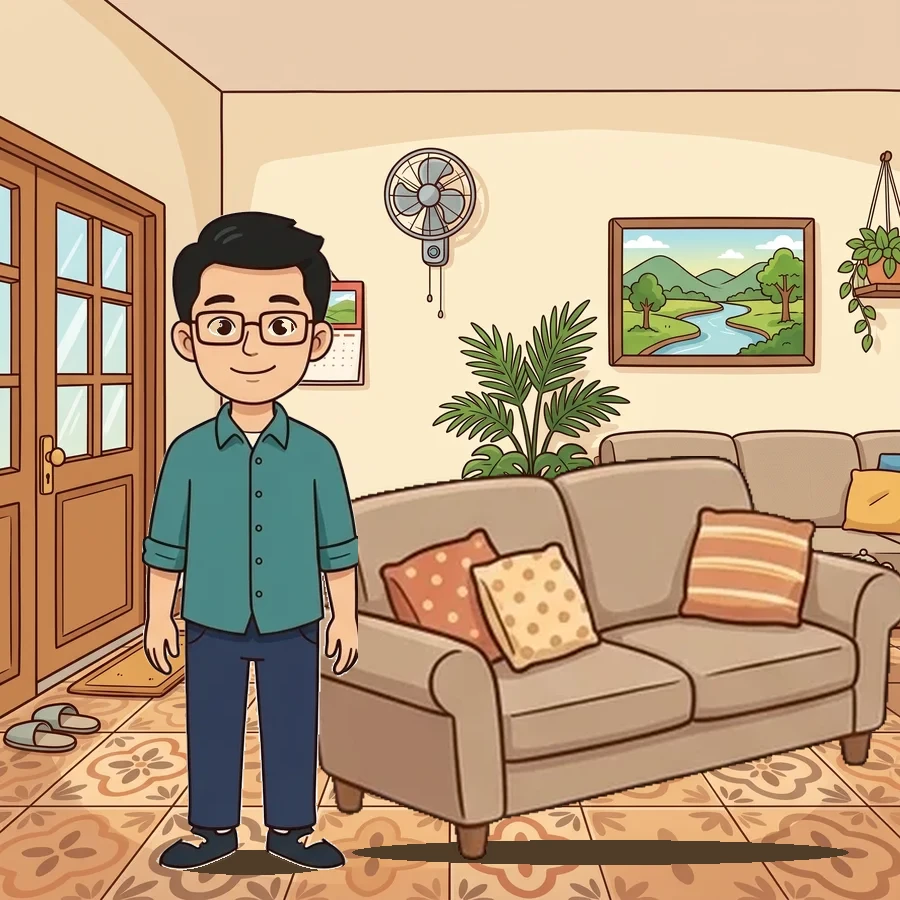
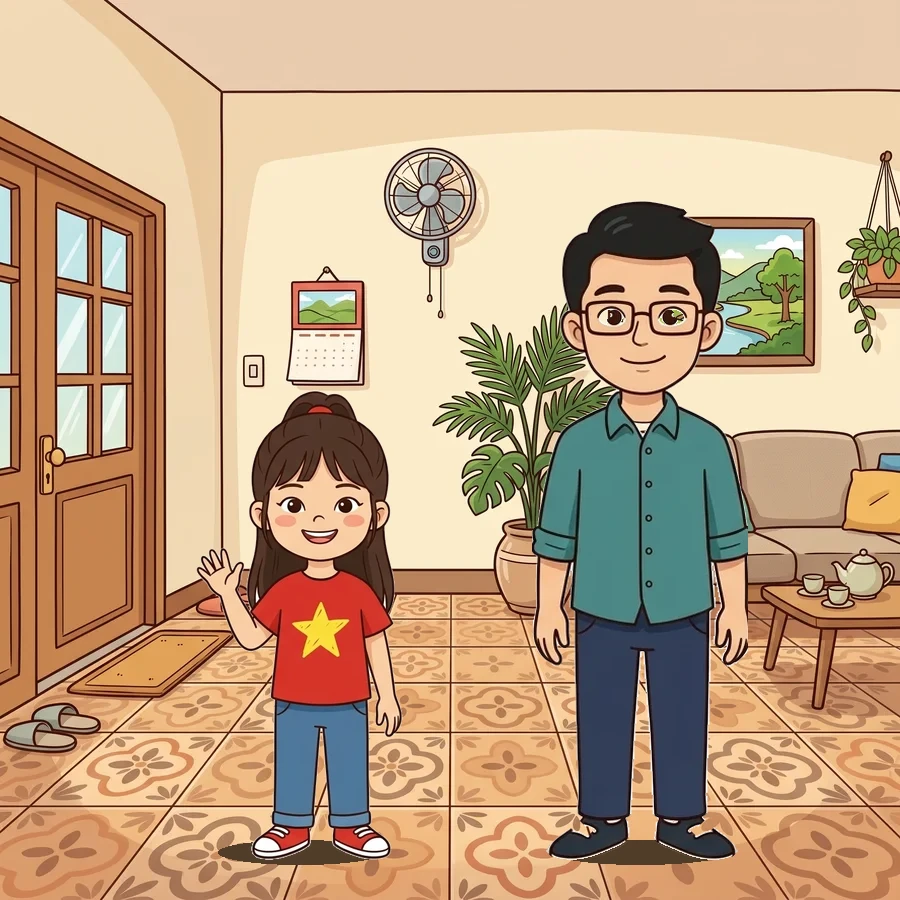
Big book mẫu PA1: trang đoán dùng bóng in tường, đồ của nhân vật thay cho cắt đôi người, nấp sau ghế
Claude-Session: https://claude.ai/code/session_018HVPnLFwoTbQKBd1fs4GD5

diff --git a/little-seed/day/mau-big-book/index.html b/little-seed/day/mau-big-book/index.html
@@ -15,6 +15,6 @@
 table.ss td{font-size:14px}
 </style></head><body>
 <div class="top noprint"><b>Big book mẫu · Little Seed U1 · "Hello, …?"</b><span class="sp"></span><a class="btn" href="../">← Học liệu in</a><button class="btn p" onclick="print()">In / Lưu PDF</button></div>
-<div class="wrap noprint"><div class="note"><b>Mẫu theo bộ quy tắc thiết kế big book mới (chờ chị duyệt).</b> Cặp trang <b>đoán → lật → chào</b>: trang đoán chỉ hé một đặc điểm (tóc, kính, cái đuôi, bàn tay), con đoán và nói to trước khi cô lật. Có cảnh nền đúng nơi xảy ra (nhà Bông, lớp, sân trường). Chỗ cười: trang 7–8 cô cố ý đoán sai ("kitten?" → "No! puppy!"); trang 15 chữ nói "Goodbye" nhưng tranh cho thấy Puppy đã chui lên giường. Khung câu 100% "Hello, ___!", chỉ dùng từ Unit 1. In A4 dọc, phóng A3 khi in big book thật. Tranh ghép từ tranh có sẵn; bản chính thức nên vẽ riêng (xem bộ quy tắc).</div>
-<table class="ss"><tr><th>Trang</th><th>Câu</th><th>Cô làm gì</th></tr><tr><td>Bìa</td><td>Hello, …?<br><span class="zh">……，你好？</span></td><td>Bìa: chỉ mèo, Puppy ló ở hai mép. Hỏi &quot;Hello, …?&quot; – con đoán ai sẽ xuất hiện.</td></tr><tr><td>1</td><td>Hello, …?<br><span class="zh">……，你好？</span></td><td>Trang đoán: chỉ mái tóc dài, vạt váy. Dừng 3 giây, để con đoán rồi mới lật.</td></tr><tr><td>2</td><td>Hello, mommy!<br><span class="zh">妈妈，你好！</span></td><td>Cả lớp vẫy tay chào.</td></tr><tr><td>3</td><td>Hello, …?<br><span class="zh">……，你好？</span></td><td>Chỉ cặp kính sau ghế. Con nói &quot;daddy!&quot; trước khi cô lật.</td></tr><tr><td>4</td><td>Hello, daddy!<br><span class="zh">爸爸，你好！</span></td><td></td></tr><tr><td>5</td><td>Hello, …?<br><span class="zh">……，你好？</span></td><td>Cái đuôi vằn cam. Làm tiếng &quot;meo&quot; nếu con chưa đoán ra.</td></tr><tr><td>6</td><td>Hello, kitten!<br><span class="zh">小猫，你好！</span></td><td></td></tr><tr><td>7</td><td>Hello, kitten?<br><span class="zh">小猫，你好？</span></td><td>Cô cố ý đoán sai: &quot;Hello, kitten?&quot; Đuôi nâu, không vằn. Chờ con phản đối &quot;No!&quot;.</td></tr><tr><td>8</td><td>No! Hello, puppy!<br><span class="zh">不对！小狗，你好！</span></td><td>Chỗ cười: cô làm mặt ngạc nhiên. Cả lớp nói &quot;No!&quot; thật to.</td></tr><tr><td>9</td><td>Hello, …?<br><span class="zh">……，你好？</span></td><td>Ở lớp: ai che mặt bằng quyển sách đỏ? Chỉ váy xanh ngọc.</td></tr><tr><td>10</td><td>Hello, teacher!<br><span class="zh">老师，你好！</span></td><td>Con chào cô thật, ngay trên lớp.</td></tr><tr><td>11</td><td>Hello, …?<br><span class="zh">……，你好？</span></td><td>Bàn tay vẫy và mái tóc xoăn ló ở mép trang.</td></tr><tr><td>12</td><td>Hello, friend!<br><span class="zh">朋友，你好！</span></td><td>Con quay sang chào bạn bên cạnh.</td></tr><tr><td>13</td><td>Hello, everyone!<br><span class="zh">大家好！</span></td><td></td></tr><tr><td>14</td><td>Goodbye, all! See you tomorrow!<br><span class="zh">大家再见！明天见！</span></td><td>Nắng chiều: hết giờ học.</td></tr><tr><td>15</td><td>Goodbye, puppy!<br><span class="zh">小狗，再见！</span></td><td>Chữ nói &quot;Goodbye&quot; nhưng Puppy đã chui lên giường Bông! Hỏi: Puppy có đi không? Con trả lời &quot;No!&quot;.</td></tr><tr><td>16</td><td>Hello, ___!<br><span class="zh">___，你好！</span></td><td>Trang cuối: dán ảnh con vào khung, cả lớp đọc tên con.</td></tr></table></div>
+<div class="wrap noprint"><div class="note"><b>Mẫu theo bộ quy tắc thiết kế big book mới (chờ chị duyệt).</b> Cặp trang <b>đoán → lật → chào</b>: trang đoán cho con thấy <b>cái bóng</b> hoặc <b>đồ của nhân vật</b> (không cắt đôi người, không nấp gượng), con đoán và nói to trước khi cô lật. Có cảnh nền đúng nơi xảy ra (nhà Bông, lớp, sân trường). Chỗ cười: trang 7–8 cô cố ý đoán sai ("kitten?" → "No! puppy!"); trang 15 chữ nói "Goodbye" nhưng tranh cho thấy Puppy đã chui lên giường. Khung câu 100% "Hello, ___!", chỉ dùng từ Unit 1. In A4 dọc, phóng A3 khi in big book thật. Đây là <b>phương án 1</b> (ghép từ tranh có sẵn). Phương án 2 (vẽ trọn cảnh bằng AI) có 4 trang thử, xem trong Canva.</div>
+<table class="ss"><tr><th>Trang</th><th>Câu</th><th>Cô làm gì</th></tr><tr><td>Bìa</td><td>Hello, …?<br><span class="zh">……，你好？</span></td><td>Bìa: Bông, mèo và Puppy. Hỏi &quot;Hello, …?&quot; – hôm nay Bông sẽ chào ai?</td></tr><tr><td>1</td><td>Hello, …?<br><span class="zh">……，你好？</span></td><td>Trang đoán: cái bóng trên tường – tóc dài, mặc váy. Dừng 3 giây, để con đoán rồi mới lật.</td></tr><tr><td>2</td><td>Hello, mommy!<br><span class="zh">妈妈，你好！</span></td><td>Cả lớp vẫy tay chào.</td></tr><tr><td>3</td><td>Hello, …?<br><span class="zh">……，你好？</span></td><td>Bóng tóc ngắn, mặc áo sơ mi. Con nói &quot;daddy!&quot; trước khi cô lật.</td></tr><tr><td>4</td><td>Hello, daddy!<br><span class="zh">爸爸，你好！</span></td><td></td></tr><tr><td>5</td><td>Hello, …?<br><span class="zh">……，你好？</span></td><td>Bóng tai nhọn, đuôi dựng. Làm tiếng &quot;meo&quot; nếu con chưa đoán ra.</td></tr><tr><td>6</td><td>Hello, kitten!<br><span class="zh">小猫，你好！</span></td><td></td></tr><tr><td>7</td><td>Hello, kitten?<br><span class="zh">小猫，你好？</span></td><td>Cô cố ý đoán sai: &quot;Hello, kitten?&quot; – nhưng mèo đang ngồi cạnh Bông, và cái bóng tai cụp! Chờ con phản đối &quot;No!&quot;.</td></tr><tr><td>8</td><td>No! Hello, puppy!<br><span class="zh">不对！小狗，你好！</span></td><td>Chỗ cười: cô làm mặt ngạc nhiên. Cả lớp nói &quot;No!&quot; thật to.</td></tr><tr><td>9</td><td>Hello, …?<br><span class="zh">……，你好？</span></td><td>Ở lớp: bóng ai in lên bảng? Tóc ngang vai, ôm quyển sách.</td></tr><tr><td>10</td><td>Hello, teacher!<br><span class="zh">老师，你好！</span></td><td>Con chào cô thật, ngay trên lớp.</td></tr><tr><td>11</td><td>Hello, …?<br><span class="zh">……，你好？</span></td><td>Cặp sách xanh của bạn trên sàn, và bóng một bạn tóc xoăn đang vẫy tay.</td></tr><tr><td>12</td><td>Hello, friend!<br><span class="zh">朋友，你好！</span></td><td>Con quay sang chào bạn bên cạnh.</td></tr><tr><td>13</td><td>Hello, everyone!<br><span class="zh">大家好！</span></td><td></td></tr><tr><td>14</td><td>Goodbye, all! See you tomorrow!<br><span class="zh">大家再见！明天见！</span></td><td>Nắng chiều: hết giờ học.</td></tr><tr><td>15</td><td>Goodbye, puppy!<br><span class="zh">小狗，再见！</span></td><td>Chữ nói &quot;Goodbye&quot; nhưng Puppy đã chui lên giường Bông! Hỏi: Puppy có đi không? Con trả lời &quot;No!&quot;.</td></tr><tr><td>16</td><td>Hello, ___!<br><span class="zh">___，你好！</span></td><td>Trang cuối: dán ảnh con vào khung, cả lớp đọc tên con.</td></tr></table></div>
 <div class="pw"><section class="pg bb bia"><div class="sc"><img src="tranh/bia.webp" alt=""></div><div class="tx"><div class="title en">Hello, <span class="slot">…</span>?</div><div class="title zh"><span class="slot">…</span>，你好？</div><div class="sub">Little Seed · Unit 1 · Big Book</div></div></section><section class="pg bb doan"><div class="sc"><img src="tranh/p1_doan.webp" alt=""></div><div class="tx"><div class="en">Hello, <span class="slot">…</span>?</div><div class="zh"><span class="slot">…</span>，你好？</div><div class="py">， nǐ hǎo?</div></div><div class="no">1</div><div class="q">?</div></section><section class="pg bb chao"><div class="sc"><img src="tranh/p1_chao.webp" alt=""></div><div class="tx"><div class="en">Hello, <b class="o">mommy</b>!</div><div class="zh"><b class="o">妈妈</b>，你好！</div><div class="py">mā mā, nǐ hǎo!</div></div><div class="no">2</div></section><section class="pg bb doan"><div class="sc"><img src="tranh/p2_doan.webp" alt=""></div><div class="tx"><div class="en">Hello, <span class="slot">…</span>?</div><div class="zh"><span class="slot">…</span>，你好？</div><div class="py">， nǐ hǎo?</div></div><div class="no">3</div><div class="q">?</div></section><section class="pg bb chao"><div class="sc"><img src="tranh/p2_chao.webp" alt=""></div><div class="tx"><div class="en">Hello, <b class="o">daddy</b>!</div><div class="zh"><b class="o">爸爸</b>，你好！</div><div class="py">bà bà, nǐ hǎo!</div></div><div class="no">4</div></section><section class="pg bb doan"><div class="sc"><img src="tranh/p3_doan.webp" alt=""></div><div class="tx"><div class="en">Hello, <span class="slot">…</span>?</div><div class="zh"><span class="slot">…</span>，你好？</div><div class="py">， nǐ hǎo?</div></div><div class="no">5</div><div class="q">?</div></section><section class="pg bb chao"><div class="sc"><img src="tranh/p3_chao.webp" alt=""></div><div class="tx"><div class="en">Hello, <b class="o">kitten</b>!</div><div class="zh"><b class="o">小猫</b>，你好！</div><div class="py">xiǎo māo, nǐ hǎo!</div></div><div class="no">6</div></section><section class="pg bb doan"><div class="sc"><img src="tranh/p4_doan.webp" alt=""></div><div class="tx"><div class="en">Hello, <b class="o">kitten</b>?</div><div class="zh"><b class="o">小猫</b>，你好？</div><div class="py">xiǎo māo, nǐ hǎo?</div></div><div class="no">7</div><div class="q">?</div></section><section class="pg bb chao"><div class="sc"><img src="tranh/p4_chao.webp" alt=""></div><div class="tx"><div class="en">No! Hello, <b class="o">puppy</b>!</div><div class="zh">不对！<b class="o">小狗</b>，你好！</div><div class="py">bú duì! xiǎo gǒu, nǐ hǎo!</div></div><div class="no">8</div></section><section class="pg bb doan"><div class="sc"><img src="tranh/p5_doan.webp" alt=""></div><div class="tx"><div class="en">Hello, <span class="slot">…</span>?</div><div class="zh"><span class="slot">…</span>，你好？</div><div class="py">， nǐ hǎo?</div></div><div class="no">9</div><div class="q">?</div></section><section class="pg bb chao"><div class="sc"><img src="tranh/p5_chao.webp" alt=""></div><div class="tx"><div class="en">Hello, <b class="o">teacher</b>!</div><div class="zh"><b class="o">老师</b>，你好！</div><div class="py">lǎo shī, nǐ hǎo!</div></div><div class="no">10</div></section><section class="pg bb doan"><div class="sc"><img src="tranh/p6_doan.webp" alt=""></div><div class="tx"><div class="en">Hello, <span class="slot">…</span>?</div><div class="zh"><span class="slot">…</span>，你好？</div><div class="py">， nǐ hǎo?</div></div><div class="no">11</div><div class="q">?</div></section><section class="pg bb chao"><div class="sc"><img src="tranh/p6_chao.webp" alt=""></div><div class="tx"><div class="en">Hello, <b class="o">friend</b>!</div><div class="zh"><b class="o">朋友</b>，你好！</div><div class="py">péng yǒu, nǐ hǎo!</div></div><div class="no">12</div></section><section class="pg bb chao"><div class="sc"><img src="tranh/p7.webp" alt=""></div><div class="tx"><div class="en">Hello, <b class="o">everyone</b>!</div><div class="zh"><b class="o">大家</b>好！</div><div class="py">dà jiā hǎo!</div></div><div class="no">13</div></section><section class="pg bb chao"><div class="sc"><img src="tranh/p8.webp" alt=""></div><div class="tx"><div class="en"><b class="o">Goodbye</b>, all! See you tomorrow!</div><div class="zh">大家<b class="o">再见</b>！明天见！</div><div class="py">dà jiā zài jiàn! míng tiān jiàn!</div></div><div class="no">14</div></section><section class="pg bb chao"><div class="sc"><img src="tranh/p9.webp" alt=""></div><div class="tx"><div class="en">Goodbye, <b class="o">puppy</b>!</div><div class="zh"><b class="o">小狗</b>，再见！</div><div class="py">xiǎo gǒu, zài jiàn!</div></div><div class="no">15</div></section><section class="pg bb ten"><div class="sc"><img src="tranh/p10.webp" alt=""></div><div class="tx"><div class="en">Hello, <span class="blank"></span>!</div><div class="zh"><span class="blank"></span>，你好！</div><div class="py">， nǐ hǎo!</div></div><div class="no">16</div></section></div></body></html>

diff --git a/chuong-trinh/cong-cu/hoc-lieu/mau-big-book/ghep.py b/chuong-trinh/cong-cu/hoc-lieu/mau-big-book/ghep.py
@@ -51,42 +51,52 @@ def part(im, box):
     a = Image.composite(im.split()[3], Image.new('L', im.size, 0), m); out = im.copy(); out.putalpha(a); return out
 
 BONG = lambda h=470, flip=False: nv('kids_bong_a', h, flip)
-# Bìa: Bông vẫy chào, mèo và Puppy ló ra ở hai mép
+def bong(base, im, cx, by, h, skew=0.18, alpha=150, blur=1.6):
+    """Bóng người in lên tường: lấy dáng nhân vật, tô sẫm, mờ nhẹ, xô nghiêng như có đèn chiếu từ phía cửa."""
+    m = im.split()[3].point(lambda v: 255 if v > 40 else 0)
+    w = int(im.width * h / im.height); m = m.resize((w, h))
+    m = m.transform((w + int(h * abs(skew)), h), Image.AFFINE, (1, skew, -h * skew if skew > 0 else 0, 0, 1, 0), Image.BICUBIC)
+    m = m.filter(ImageFilter.GaussianBlur(blur)).point(lambda v: v * alpha // 255)
+    sh = Image.new('RGBA', m.size, (55, 50, 70, 0)); sh.putalpha(m)
+    base.alpha_composite(sh, (int(cx - sh.width / 2), int(by - h)))
+
+BONG = lambda h=470, flip=False: nv('kids_bong_a', h, flip)
+WALL = 545   # chân tường phòng khách ls_home (chỗ tường gặp sàn)
+# Bìa: Bông vẫy chào, mèo và Puppy ngồi hai bên
 b = nen('ls_home'); put(b, BONG(520), 450, 860)
-put(b, nv('pets_meo_ngoi_a', 300, True), 20, 870, sh=False); put(b, nv('pets_cun_ngoi_a', 320), 880, 870, sh=False)
+put(b, nv('pets_meo_ngoi_a', 260, True), 210, 870); put(b, nv('pets_cun_ngoi_a', 280), 700, 870)
 save(b, 'bia')
 
-# 1 – đoán: mẹ bước vào từ mép phải, chỉ thấy mái tóc dài và một bên váy
-b = nen('ls_home'); put(b, BONG(), 300, 860); put(b, nv('fam_bong_me_a', 640), 925, 860, sh=False); save(b, 'p1_doan')
-b = nen('ls_home'); put(b, BONG(), 300, 860); put(b, nv('fam_bong_me_a', 640), 640, 860); save(b, 'p1_chao')
+# Trang đoán: không cắt người, không nấp – BÓNG in trên tường; Bông quay nhìn cái bóng
+# 1 – bóng tóc dài, váy → mommy
+me = nv('fam_bong_me_a', 640)
+b = nen('ls_home'); bong(b, me, 600, WALL + 10, 470); put(b, BONG(470, True), 260, 860); save(b, 'p1_doan')
+b = nen('ls_home'); put(b, BONG(), 300, 860); put(b, me, 640, 860); save(b, 'p1_chao')
 
-# 2 – đoán: bố trốn sau ghế sofa, chỉ thấy tóc và cặp kính
-b = nen('ls_home'); d = nv('fam_bong_bo_a', 660); top = 860 - int(SOFA.height * 620 / SOFA.width)
-b.alpha_composite(part(d, (0, 0, 1, .4)), (470 - d.width // 2, top - 105)); sofa(b); save(b, 'p2_doan')
-b = nen('ls_home'); sofa(b, cx=600); put(b, d, 250, 870); save(b, 'p2_chao')
+# 2 – bóng tóc ngắn, đeo kính, áo sơ mi → daddy
+bo = nv('fam_bong_bo_a', 660)
+b = nen('ls_home'); bong(b, bo, 610, WALL + 10, 480); put(b, BONG(470, True), 260, 860); save(b, 'p2_doan')
+b = nen('ls_home'); put(b, BONG(), 300, 860); put(b, bo, 640, 860); save(b, 'p2_chao')
 
-# 3 – đoán: cái đuôi vằn cam thò lên sau lưng ghế
+# 3 – bóng tai nhọn, đuôi dựng → kitten
 meo = nv('pets_meo_dung_a', 330)
-b = nen('ls_home'); b.alpha_composite(part(meo, (.76, 0, 1, .55)), (560 - meo.width // 2, top - 160)); sofa(b); save(b, 'p3_doan')
-b = nen('ls_home'); sofa(b); put(b, nv('pets_meo_dung_a', 300), 470, top + 150, sh=False); save(b, 'p3_chao')
+b = nen('ls_home'); bong(b, meo, 600, WALL + 10, 300, skew=.12); put(b, BONG(470, True), 260, 860); save(b, 'p3_doan')
+b = nen('ls_home'); put(b, BONG(), 300, 860); put(b, meo, 640, 860); save(b, 'p3_chao')
 
-# 4 – đoán: lại một cái đuôi (màu nâu, không có vằn) – cô đọc "Hello, kitten?", con tinh ý nói "No!"
+# 4 – lại một cái bóng bốn chân… tai cụp, đuôi ngắn. Cô đọc "Hello, kitten?" – con phát hiện: No!
 cun = nv('pets_cun_dung_a', 330)
-cg = nv('pets_cun_dung_a', 460); b = nen('ls_home'); b.alpha_composite(part(cg, (0, .34, .155, .62)), (520 - cg.width // 2, top - 245)); sofa(b); save(b, 'p4_doan')
-b = nen('ls_home'); sofa(b); put(b, cun, 300, 860); put(b, nv('pets_meo_dung_a', 280, True), 560, top + 150, sh=False); save(b, 'p4_chao')
+b = nen('ls_home'); bong(b, cun, 600, WALL + 10, 310, skew=.12); put(b, BONG(470, True), 260, 860); put(b, nv('pets_meo_ngoi_a', 200, True), 430, 870); save(b, 'p4_doan')
+b = nen('ls_home'); put(b, BONG(), 260, 860); put(b, cun, 560, 860); put(b, nv('pets_meo_ngoi_a', 200, True), 780, 870); save(b, 'p4_chao')
 
-# 5 – lớp học: cô giơ quyển sách che mặt, chỉ thấy váy xanh ngọc và tay
+# 5 – lớp học: bóng cô (tóc ngang vai, ôm sách) in lên bảng xanh và tường
 lan = nv('nv_lan_a', 640)
-b = nen('ls_class'); put(b, BONG(420, True), 230, 880); put(b, lan, 640, 900)
-book = Image.new('RGBA', (240, 180), (0, 0, 0, 0)); dr = ImageDraw.Draw(book)
-dr.rounded_rectangle([0, 0, 239, 179], 16, fill=(200, 55, 45, 255), outline=(60, 30, 20, 255), width=6); dr.line([120, 4, 120, 175], fill=(60, 30, 20, 255), width=5)
-for cx in (60, 180): dr.ellipse([cx - 32, 60, cx + 32, 124], fill=(242, 193, 78, 255), outline=(60, 30, 20, 255), width=4)
-b.alpha_composite(book, (640 - 120, 900 - 640 + 5)); save(b, 'p5_doan')
+b = nen('ls_class'); bong(b, lan, 560, 470, 400, skew=.1, alpha=150); put(b, BONG(420), 230, 880); save(b, 'p5_doan')
 b = nen('ls_class'); put(b, BONG(420, True), 230, 880); put(b, lan, 640, 900); save(b, 'p5_chao')
 
-# 6 – bàn tay vẫy ló ra từ mép trái → bạn Leo
+# 6 – cặp sách xanh của bạn trên ghế + bóng bạn tóc xoăn vẫy tay
 leo = nv('kids_leo_a', 470)
-b = nen('ls_class'); put(b, BONG(420, True), 600, 880); b.alpha_composite(leo, (-int(leo.width * .5), 880 - leo.height)); save(b, 'p6_doan')
+bag = key_white(PIC + 'schoolbag.webp', 30); bag = bag.resize((150, int(bag.height * 150 / bag.width)), Image.LANCZOS)
+b = nen('ls_class'); bong(b, leo, 330, 470, 330, skew=-.1, alpha=150); put(b, bag, 470, 720); put(b, BONG(420, True), 680, 880); save(b, 'p6_doan')
 b = nen('ls_class'); put(b, BONG(420, True), 620, 880); put(b, leo, 280, 880); save(b, 'p6_chao')
 
 # 7 – cả lớp

diff --git a/chuong-trinh/cong-cu/hoc-lieu/mau-big-book/trang.py b/chuong-trinh/cong-cu/hoc-lieu/mau-big-book/trang.py
@@ -5,18 +5,18 @@ def PY(z): return ' '.join(x[0] for x in pinyin(z, style=Style.TONE)).replace(' 
 SLOT = '<span class="slot">…</span>'
 # (tranh, EN, ZH, từ trong ô (tô màu), loại trang, ghi chú cho cô)
 P = [
- ('bia', 'Hello, …?', '……，你好？', '', 'bia', 'Bìa: chỉ mèo, Puppy ló ở hai mép. Hỏi "Hello, …?" – con đoán ai sẽ xuất hiện.'),
- ('p1_doan', 'Hello, …?', '……，你好？', '', 'doan', 'Trang đoán: chỉ mái tóc dài, vạt váy. Dừng 3 giây, để con đoán rồi mới lật.'),
+ ('bia', 'Hello, …?', '……，你好？', '', 'bia', 'Bìa: Bông, mèo và Puppy. Hỏi "Hello, …?" – hôm nay Bông sẽ chào ai?'),
+ ('p1_doan', 'Hello, …?', '……，你好？', '', 'doan', 'Trang đoán: cái bóng trên tường – tóc dài, mặc váy. Dừng 3 giây, để con đoán rồi mới lật.'),
  ('p1_chao', 'Hello, mommy!', '妈妈，你好！', 'mommy|妈妈', 'chao', 'Cả lớp vẫy tay chào.'),
- ('p2_doan', 'Hello, …?', '……，你好？', '', 'doan', 'Chỉ cặp kính sau ghế. Con nói "daddy!" trước khi cô lật.'),
+ ('p2_doan', 'Hello, …?', '……，你好？', '', 'doan', 'Bóng tóc ngắn, mặc áo sơ mi. Con nói "daddy!" trước khi cô lật.'),
  ('p2_chao', 'Hello, daddy!', '爸爸，你好！', 'daddy|爸爸', 'chao', ''),
- ('p3_doan', 'Hello, …?', '……，你好？', '', 'doan', 'Cái đuôi vằn cam. Làm tiếng "meo" nếu con chưa đoán ra.'),
+ ('p3_doan', 'Hello, …?', '……，你好？', '', 'doan', 'Bóng tai nhọn, đuôi dựng. Làm tiếng "meo" nếu con chưa đoán ra.'),
  ('p3_chao', 'Hello, kitten!', '小猫，你好！', 'kitten|小猫', 'chao', ''),
- ('p4_doan', 'Hello, kitten?', '小猫，你好？', 'kitten|小猫', 'doan', 'Cô cố ý đoán sai: "Hello, kitten?" Đuôi nâu, không vằn. Chờ con phản đối "No!".'),
+ ('p4_doan', 'Hello, kitten?', '小猫，你好？', 'kitten|小猫', 'doan', 'Cô cố ý đoán sai: "Hello, kitten?" – nhưng mèo đang ngồi cạnh Bông, và cái bóng tai cụp! Chờ con phản đối "No!".'),
  ('p4_chao', 'No! Hello, puppy!', '不对！小狗，你好！', 'puppy|小狗', 'chao', 'Chỗ cười: cô làm mặt ngạc nhiên. Cả lớp nói "No!" thật to.'),
- ('p5_doan', 'Hello, …?', '……，你好？', '', 'doan', 'Ở lớp: ai che mặt bằng quyển sách đỏ? Chỉ váy xanh ngọc.'),
+ ('p5_doan', 'Hello, …?', '……，你好？', '', 'doan', 'Ở lớp: bóng ai in lên bảng? Tóc ngang vai, ôm quyển sách.'),
  ('p5_chao', 'Hello, teacher!', '老师，你好！', 'teacher|老师', 'chao', 'Con chào cô thật, ngay trên lớp.'),
- ('p6_doan', 'Hello, …?', '……，你好？', '', 'doan', 'Bàn tay vẫy và mái tóc xoăn ló ở mép trang.'),
+ ('p6_doan', 'Hello, …?', '……，你好？', '', 'doan', 'Cặp sách xanh của bạn trên sàn, và bóng một bạn tóc xoăn đang vẫy tay.'),
  ('p6_chao', 'Hello, friend!', '朋友，你好！', 'friend|朋友', 'chao', 'Con quay sang chào bạn bên cạnh.'),
  ('p7', 'Hello, everyone!', '大家好！', 'everyone|大家', 'chao', ''),
  ('p8', 'Goodbye, all! See you tomorrow!', '大家再见！明天见！', 'Goodbye|再见', 'chao', 'Nắng chiều: hết giờ học.'),
@@ -55,7 +55,7 @@ H = f'''<!doctype html><html lang="vi"><head><meta charset="utf-8"><meta name="v
 table.ss td{{font-size:14px}}
 </style></head><body>
 <div class="top noprint"><b>Big book mẫu · Little Seed U1 · "Hello, …?"</b><span class="sp"></span><a class="btn" href="../">← Học liệu in</a><button class="btn p" onclick="print()">In / Lưu PDF</button></div>
-<div class="wrap noprint"><div class="note"><b>Mẫu theo bộ quy tắc thiết kế big book mới (chờ chị duyệt).</b> Cặp trang <b>đoán → lật → chào</b>: trang đoán chỉ hé một đặc điểm (tóc, kính, cái đuôi, bàn tay), con đoán và nói to trước khi cô lật. Có cảnh nền đúng nơi xảy ra (nhà Bông, lớp, sân trường). Chỗ cười: trang 7–8 cô cố ý đoán sai ("kitten?" → "No! puppy!"); trang 15 chữ nói "Goodbye" nhưng tranh cho thấy Puppy đã chui lên giường. Khung câu 100% "Hello, ___!", chỉ dùng từ Unit 1. In A4 dọc, phóng A3 khi in big book thật. Tranh ghép từ tranh có sẵn; bản chính thức nên vẽ riêng (xem bộ quy tắc).</div>
+<div class="wrap noprint"><div class="note"><b>Mẫu theo bộ quy tắc thiết kế big book mới (chờ chị duyệt).</b> Cặp trang <b>đoán → lật → chào</b>: trang đoán cho con thấy <b>cái bóng</b> hoặc <b>đồ của nhân vật</b> (không cắt đôi người, không nấp gượng), con đoán và nói to trước khi cô lật. Có cảnh nền đúng nơi xảy ra (nhà Bông, lớp, sân trường). Chỗ cười: trang 7–8 cô cố ý đoán sai ("kitten?" → "No! puppy!"); trang 15 chữ nói "Goodbye" nhưng tranh cho thấy Puppy đã chui lên giường. Khung câu 100% "Hello, ___!", chỉ dùng từ Unit 1. In A4 dọc, phóng A3 khi in big book thật. Đây là <b>phương án 1</b> (ghép từ tranh có sẵn). Phương án 2 (vẽ trọn cảnh bằng AI) có 4 trang thử, xem trong Canva.</div>
 <table class="ss"><tr><th>Trang</th><th>Câu</th><th>Cô làm gì</th></tr>{''.join(notes)}</table></div>
 <div class="pw">{''.join(pages)}</div></body></html>'''
 open('little-seed/day/mau-big-book/index.html', 'w').write(H); print(len(P), 'trang')
